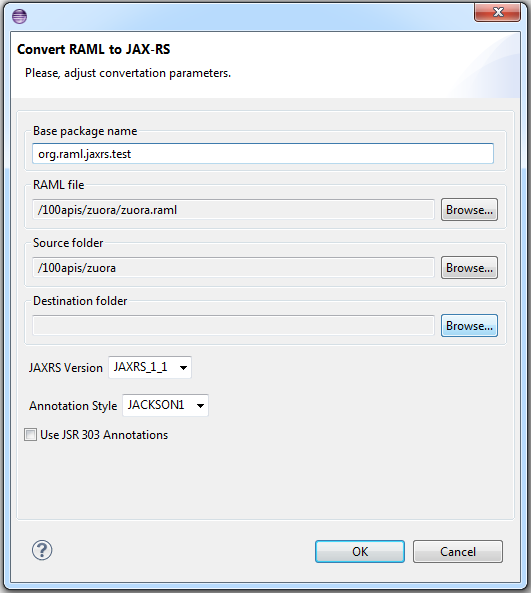
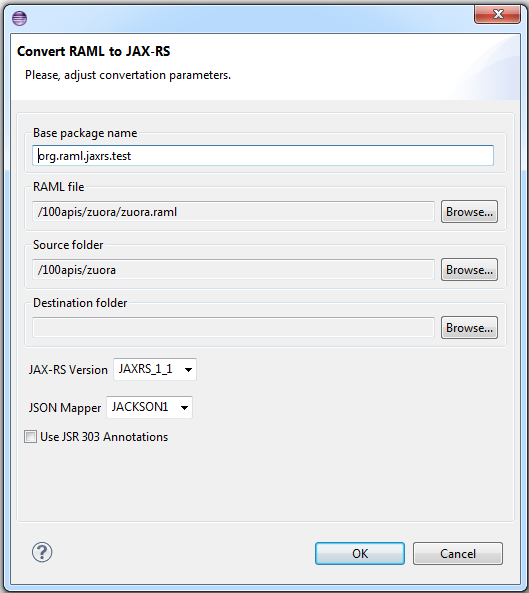
Eclipse plugin: options description in documentation

Changed region(s): [[0.0, 0.0, 1.0, 1.0]]

diff --git a/eclipse-plugin/src/raml/jaxrs/eclipse/plugin/ConfigurationDialog.java b/eclipse-plugin/src/raml/jaxrs/eclipse/plugin/ConfigurationDialog.java
@@ -79,8 +79,8 @@ public class ConfigurationDialog extends TitleAreaDialog {
 		createResourceSelectionGroup(hBox,"Source folder", this.uiConfig.srcFolder, "folder");
 		createResourceSelectionGroup(hBox,"Destination folder", this.uiConfig.dstFolder, "folder");
 		
-		createCombo(hBox, "JAXRS Version", getJaxrsVersionRealm(), this.uiConfig.jaxrsVersion);
-		createCombo(hBox, "Annotation Style", getAnnotationStyleRealm(), this.uiConfig.jsonMapper);
+		createCombo(hBox, "JAX-RS Version", getJaxrsVersionRealm(), this.uiConfig.jaxrsVersion);
+		createCombo(hBox, "JSON Mapper", getAnnotationStyleRealm(), this.uiConfig.jsonMapper);
 		
 		createCheckBox(hBox, "Use JSR 303 Annotations", this.uiConfig.useJsr303Annotations);
 		

diff --git a/eclipse-plugin/README.md b/eclipse-plugin/README.md
@@ -8,10 +8,16 @@ _NB. The following documentation will soon be superseded by the Maven-generated 
 
 ## Usage
 
-Select your RAML file in the Package Explorer. Invoke the context menu and click the "RAML to JAX-RS" item to open the  configuration dialog.
+Select your RAML file in the Package Explorer. Invoke the context menu and click the "RAML to JAX-RS" item to open the configuration dialog.
 
 ![](/eclipse-plugin/doc/popup.png)
 
 Use the dialog to configure parameters and launch the generation process.
 
 ![](/eclipse-plugin/doc/dialog.png)
+
+| Option      | Description   |
+| -------------- |-------------| 
+| JAX-RS version | Version of JAX-RS framework to be used during generation |
+| JSON Mapper    | Annotation framework used to map JSON      |
+| Use JSR 303 Annotations   | Enable or not JSR 303 Java Bean validation    |
